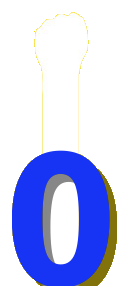
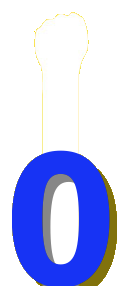
fix(ui): Counting-Fingers wieder transparent und unten bündig
Kein Primary-Hintergrund mehr (Playful-Kontrast reicht); Assets unten ohne Padding, Vote/Host ohne unteren Gap.

diff --git a/apps/frontend/src/app/shared/countdown-fingers/countdown-fingers.component.spec.ts b/apps/frontend/src/app/shared/countdown-fingers/countdown-fingers.component.spec.ts
@@ -28,7 +28,7 @@ describe('CountdownFingersComponent', () => {
     );
   });
 
-  it('hält Vote-Fingers schmal, light-only Kontrast und bündig unten links', () => {
+  it('hält Vote-Fingers transparent, bündig unten links', () => {
     const fixture = TestBed.createComponent(CountdownFingersComponent);
     fixture.componentRef.setInput('seconds', 4);
     fixture.componentRef.setInput('size', 'small');
@@ -48,21 +48,12 @@ describe('CountdownFingersComponent', () => {
     expect(styles).not.toMatch(/position-anchor:\s*--app-footer-anchor/);
     expect(styles).toMatch(/countdown-fingers-host--viewport[\s\S]*?left:\s*calc\(/);
     expect(styles).toMatch(/width:\s*fit-content/);
-    expect(styles).toMatch(
-      /countdown-fingers--small[\s\S]*?background:\s*var\(--mat-sys-primary\)/,
-    );
-    expect(styles).toMatch(/padding:\s*0\.35rem 0\.35rem 0/);
-    expect(styles).toMatch(/countdown-fingers--large[\s\S]*?padding:\s*0\.45rem 0\.45rem 0/);
-    expect(styles).toMatch(
-      /border-radius:\s*var\(--mat-sys-corner-extra-large,\s*1\.5rem\)[\s\S]*?0\s+0/,
-    );
+    expect(styles).toMatch(/countdown-fingers--small[\s\S]*?background:\s*transparent/);
+    expect(styles).toMatch(/countdown-fingers--large[\s\S]*?background:\s*transparent/);
+    expect(styles).toMatch(/countdown-fingers--present[\s\S]*?background:\s*transparent/);
+    expect(styles).not.toMatch(/background:\s*var\(--mat-sys-primary\)/);
+    expect(styles).toMatch(/countdown-fingers--small[\s\S]*?padding:\s*0/);
     expect(styles).toMatch(/countdown-fingers--small[\s\S]*?width:\s*48px/);
-    expect(styles).toMatch(
-      /countdown-fingers--large[\s\S]*?background:\s*var\(--mat-sys-primary\)/,
-    );
-    expect(styles).toMatch(
-      /countdown-fingers--present[\s\S]*?background:\s*var\(--mat-sys-primary\)/,
-    );
     expect(styles).toMatch(/countdown-fingers--present[\s\S]*?width:\s*fit-content/);
   });
 });

diff --git a/apps/frontend/src/app/shared/countdown-fingers/countdown-fingers.component.ts b/apps/frontend/src/app/shared/countdown-fingers/countdown-fingers.component.ts
@@ -77,11 +77,8 @@ const FINGER_IMAGES: Record<number, string> = {
       }
 
       .countdown-fingers--large {
-        padding: 0.45rem 0.45rem 0;
-        border-radius: var(--mat-sys-corner-extra-large, 1.5rem)
-          var(--mat-sys-corner-extra-large, 1.5rem) 0 0;
-        /* Theme-Primary in Light und Dark; unten ohne Padding → bündig an die Folge-Karte. */
-        background: var(--mat-sys-primary);
+        padding: 0;
+        background: transparent;
 
         .countdown-fingers__img {
           width: 120px;
@@ -91,14 +88,11 @@ const FINGER_IMAGES: Record<number, string> = {
       }
 
       .countdown-fingers--small {
-        /* Schmale Fläche; unten ohne Padding → bündig am Footer-/Viewport-Unterrand. */
-        padding: 0.35rem 0.35rem 0;
-        border-radius: var(--mat-sys-corner-extra-large, 1.5rem)
-          var(--mat-sys-corner-extra-large, 1.5rem) 0 0;
-        background: var(--mat-sys-primary);
+        padding: 0;
+        background: transparent;
 
         .countdown-fingers__img {
-          /* Kompakt unten links; Assets sind auf Content + gleiches Padding zugeschnitten. */
+          /* Kompakt unten links; Asset unten bündig am Content. */
           width: 48px;
           height: auto;
         }
@@ -110,10 +104,8 @@ const FINGER_IMAGES: Record<number, string> = {
         max-width: 100%;
         max-height: 100%;
         min-height: 0;
-        padding: clamp(0.45rem, 1.4vmin, 0.9rem) clamp(0.45rem, 1.4vmin, 0.9rem) 0;
-        border-radius: var(--mat-sys-corner-extra-large, 1.5rem)
-          var(--mat-sys-corner-extra-large, 1.5rem) 0 0;
-        background: var(--mat-sys-primary);
+        padding: 0;
+        background: transparent;
 
         .countdown-fingers__img {
           width: auto;
